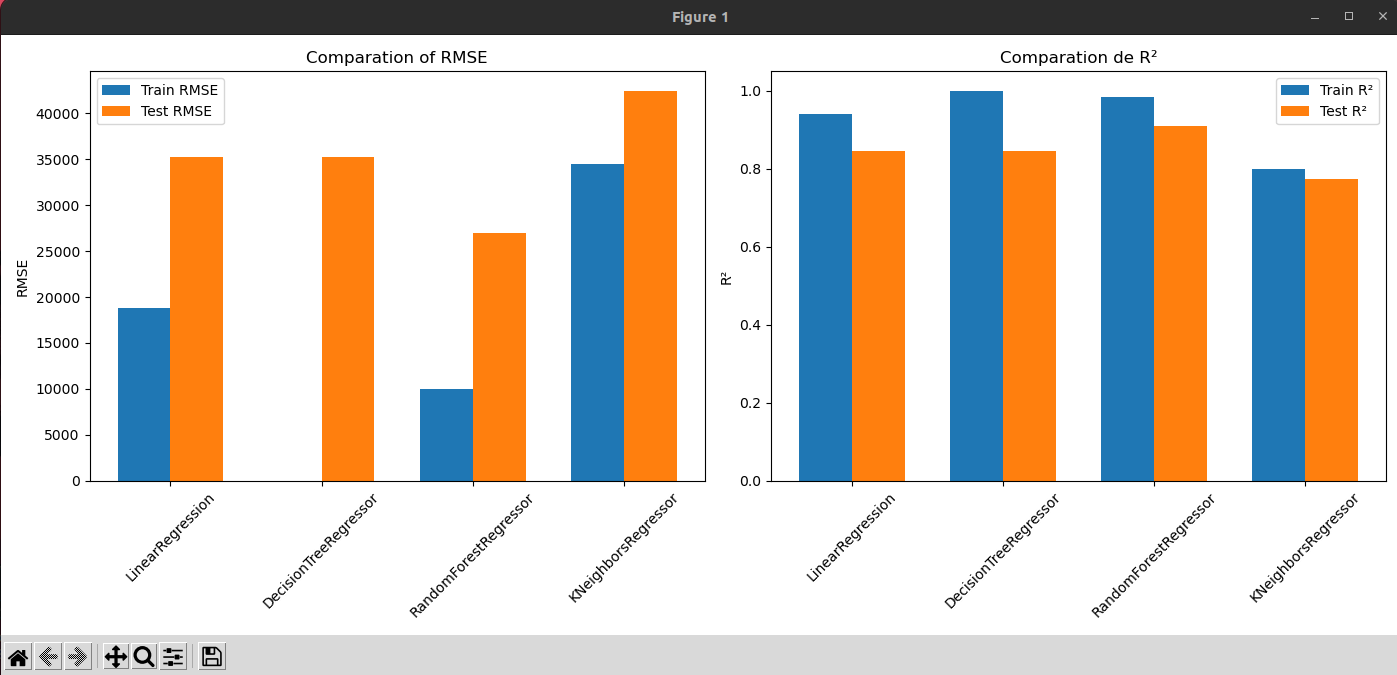
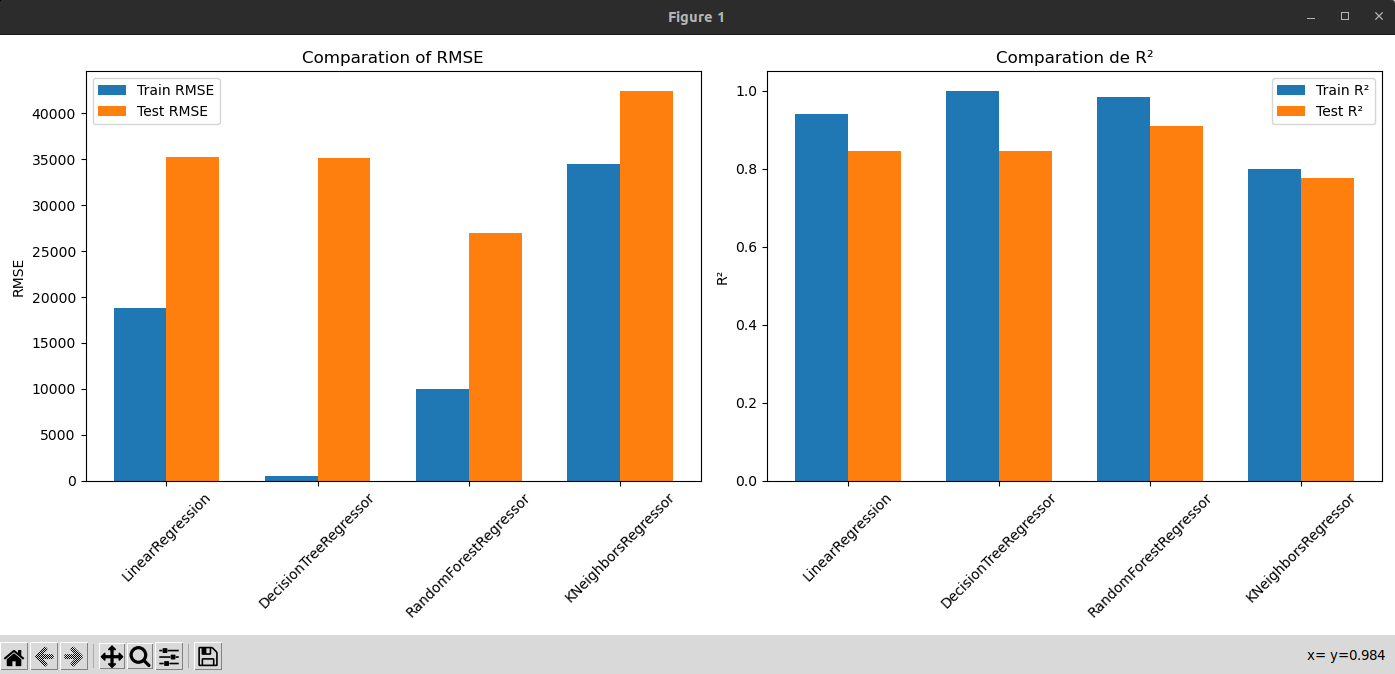
Program

diff --git a/1.FundamentalsML/2.HousePricePrediction/1.3TraininigMultipleAlgorithms/3.TrainingMultipleAlgorithms.py b/1.FundamentalsML/2.HousePricePrediction/1.3TraininigMultipleAlgorithms/3.TrainingMultipleAlgorithms.py
@@ -7,10 +7,11 @@ from sklearn.tree import DecisionTreeRegressor
 from sklearn.ensemble import RandomForestRegressor
 from sklearn.neighbors import KNeighborsRegressor
 from sklearn.metrics import mean_squared_error, r2_score
+from sklearn.model_selection import GridSearchCV
 
 # 1. Loading Cleaned Data
 print("\n=== 1. Loading Cleaned Data ===")
-file_path = '/home/kevin/Desktop/Kevin/3.MachineLearning/1.FundamentalsML/2.HousePricePrediction/2.ExploratoryDataAnalysis(EDA)/AmesHousing_cleaned.csv'
+file_path = '/home/kevin/Desktop/Kevin/3.MachineLearning/1.FundamentalsML/2.HousePricePrediction/1.2ExploratoryDataAnalysis(EDA)/AmesHousing_cleaned.csv'
 df = pd.read_csv(file_path)
 print(f"Dataset loaded with shape: {df.shape}")
 
@@ -29,10 +30,19 @@ X = pd.get_dummies(X, columns=categorical_columns, drop_first=True)
 X_train, X_test, y_train, y_test = train_test_split(X, y, test_size=0.2, random_state=42)
 
 
+# --- Grid Search para DecisionTreeRegressor ---
+def get_best_decision_tree(X_train, y_train):
+    param_grid = {'max_depth': [5, 10, 15, 20, 25, None]}
+    grid_search = GridSearchCV(DecisionTreeRegressor(random_state=42), param_grid, cv=5, scoring='neg_mean_squared_error')
+    grid_search.fit(X_train, y_train)
+    print(f"\n✅ Best max_depth for DecisionTreeRegressor: {grid_search.best_params_['max_depth']}")
+    return DecisionTreeRegressor(random_state=42, max_depth=grid_search.best_params_['max_depth'])
+
+
 # Modelos
 models = {
     'LinearRegression': LinearRegression(),
-    'DecisionTreeRegressor': DecisionTreeRegressor(random_state=42),
+    'DecisionTreeRegressor': get_best_decision_tree(X_train, y_train),  # Optimizado
     'RandomForestRegressor': RandomForestRegressor(random_state=42),
     'KNeighborsRegressor': KNeighborsRegressor()
 }
@@ -50,12 +60,12 @@ def evaluate_model(model, X_train, X_test, y_train, y_test):
     test_rmse = mean_squared_error(y_test, y_test_pred, squared=False)
     train_r2 = r2_score(y_train, y_train_pred)
     test_r2 = r2_score(y_test, y_test_pred)
-    
+
     print(f"\n📊 Model: {model.__class__.__name__}")
     print(f"Train RMSE: {train_rmse:.2f}")
     print(f"Test RMSE: {test_rmse:.2f}")
-    print(f"Train R2: {train_r2:.2f}")
-    print(f"Test R2: {test_r2:.2f}")
+    print(f"Train R²: {train_r2:.2f}")
+    print(f"Test R²: {test_r2:.2f}")
     print("-" * 50)
 
     results.append({

diff --git a/1.FundamentalsML/2.HousePricePrediction/1.2ExploratoryDataAnalysis(EDA)/2.ExploratoryDataAnalysis(EDA).py b/1.FundamentalsML/2.HousePricePrediction/1.2ExploratoryDataAnalysis(EDA)/2.ExploratoryDataAnalysis(EDA).py
@@ -3,7 +3,7 @@ import numpy as np
 import matplotlib.pyplot as plt
 
 # Ruta del archivo procesado (el que guardamos en DataProcessing.py)
-file_path = '/home/kevin/Desktop/Kevin/3.MachineLearning/1.FundamentalsML/2.HousePricePrediction/2.ExploratoryDataAnalysis(EDA)/AmesHousing_cleaned.csv'
+file_path = '/home/kevin/Desktop/Kevin/3.MachineLearning/1.FundamentalsML/2.HousePricePrediction/1.2ExploratoryDataAnalysis(EDA)/AmesHousing_cleaned.csv'
 
 # Cargar datos
 df = pd.read_csv(file_path)

diff --git a/1.FundamentalsML/2.HousePricePrediction/1.3TraininigMultipleAlgorithms/Readme.md b/1.FundamentalsML/2.HousePricePrediction/1.3TraininigMultipleAlgorithms/Readme.md
@@ -1,0 +1,81 @@
+<p align = "center" >
+    <h1 align = "Center"> Training Multiple Algorithms</h1>
+</p>
+
+<p align = "center" >
+    <h2 align = "Center">🎯 Objetives 🎯</h2>
+</p>
+
+Load the clean dataset, convert the categorical variables, train 4 different models, calculate their key metrics (RMSE and R²), and compare them with clear graphs, helping you select the best model to predict SalePrice.
+
+This program is responsible for testing and comparing different Machine Learning algorithms to predict house prices (SalePrice).  Its purpose is to identify which model offers the best balance between accuracy (R²) and error (RMSE).
+
+
+* **1.Data Loading and Preparation** 
+    - Load the cleaned dataset: AmesHousing_cleaned.csv.
+    - Separate Features (X) and Target (y), where:
+        - Features: All columns except SalePrice.
+        - Objetivo: Columna SalePrice.
+    - Detect categorical columns (object type).
+    - Apply One-Hot Encoding to convert categorical variables into numerical variables (essential for sklearn models).
+    - Divide the data into train (80%) and test (20%).
+
+* **2.Models to Evaluate**
+    - Regresion Lineal
+        - Simple Linear Regression
+    - Decision Tree Regressor
+        - Decision Tree (With max_depth optimized by GridSearchCV)
+    - Random Forest Regressor 
+        - Ensemble of trees (Random Forest)
+    - KNeighbors Regressor
+        - K-nearest neighbors regressor (KNN) 
+
+* **3.Model Evaluation**
+    - The following Metrics are calculated
+        - Train RMSE
+            - Root mean squared error on the training set 
+        - Test RMSE 
+            - Root mean square error on the test set 
+        - Train R2
+            - Coefficient of determination in the training set 
+        - Test R2 
+            - Coefficient of determination in the test set
+    - RMSE measures the absolute error (the lower, the better).
+    - R² measures how well the model explains the variation in SalePrice (the closer to 1, the better).
+
+* **4.Results Recording**
+    - All the results are stored in a DataFrame called df_results.
+    - The results are ordered by the order of the evaluated models (so that the graphical comparison is clear).
+
+* **4.Graphical Comparison**
+    - These charts allow for a quick visualization to identify:
+    - Which model has the least error?
+    - Which model achieves greater accuracy?
+    - Is any model overfitting?
+
+<p align = "center" >
+    <h2 align = "Center">📝 Results 📝 </h2>
+</p>
+
+The bar you see in the graph generated by this code is a histogram that represents the distrubution of examples by class in the MNIST dataset (8x8 version)
+
+| <p align = "left"> Each  bar corresponds to a digit from 0 to 9, and the height of the bar indicates how many images of that digit are in the dataset. <br> It is used to verify that the data is balanced (that there is a similar number of images for each number) or to detect if any class has very few examples, which could affect the performance of your modeel.| <img src = "https://github.com/KevinAlberto01/3.MachineLearning/blob/main/1.FundamentalsML/1.HandwrittenDigitClassifier(MNIST)/1.1LoadingAndExploring(MNIST)/Images/Histogram.png" width="4000"/>|
+|----------------------------|----------------------------------------------------------------------------|
+
+The program is designed to show the dimensions (x, y) of the dataset, the classes it has, and the number of examples per class.
+<p align="center">
+  <img src="https://github.com/KevinAlberto01/3.MachineLearning/blob/main/1.FundamentalsML/1.HandwrittenDigitClassifier(MNIST)/1.1LoadingAndExploring(MNIST)/Images/Result.png" alt="Result2" width="1000"/>
+</p>
+
+<p align = "center" >
+    <h2 align = "Center"> 💻 Program explication 💻</h2>
+</p> 
+
+|Pseudocode| Image of the program|
+|----------|---------------------|
+**NumPy:** Used to work with arrays and matrices, and it has functions for mathematics and statistics <br> **Pandas:** Used to manipulate and analyze data, particularly with DataFrames (tables of rows and columns).<br> **matplotlib.pyplot:** Used to create graphs, and pyplot is specifically for generating different types of plots (e.g., bar, line, scatter).<br> **load_digits from sklearn.datasets:** Used to load a dataset of handwritten digits, which is commonly used in classification projects.| <img src = "https://github.com/KevinAlberto01/3.MachineLearning/blob/main/1.FundamentalsML/1.HandwrittenDigitClassifier(MNIST)/1.1LoadingAndExploring(MNIST)/Images/1.DeclareteLibraries.png" width="4000"/>|
+**`digits`:** loads a dataset of handwritten digit images, where you find images of numbers 0 to 9 in black and white, each with 8x8 pixels. Each image represents a number (digit) and has a label indicating which number it is. <br> **`x`:** Contains images (numeric format), for each 8x8 image it is flattened into a 64 array, each value represents the pixel intensity (0 = black, 16 = white). <br> **`y`:** contains the labels (real numbers of the images), each element is a number from 0 to , representing which digit each image is| <img src = "https://github.com/KevinAlberto01/3.MachineLearning/blob/main/1.FundamentalsML/1.HandwrittenDigitClassifier(MNIST)/1.1LoadingAndExploring(MNIST)/Images/2.LoadDataset.png" width="4000"/>|
+**`x.shape`:** Returns the dimension of x(1797, 64), it has 1797 images, and each image has 64 values (8x8 pixels). <br> **`y.shape`:** Returns the dimension of y (1797), there are 1797 labels per image, each label is the number it represents (0-9).|<img src = "https://github.com/KevinAlberto01/3.MachineLearning/blob/main/1.FundamentalsML/1.HandwrittenDigitClassifier(MNIST)/1.1LoadingAndExploring(MNIST)/Images/3.ExploringDimensionsDataSet.png" width="4000"/>|
+**`clases`:** Contains the unique values of y(0-9) <br> **`count_classes`:** Array that indicates how many examples there are of each class | <img src = "https://github.com/KevinAlberto01/3.MachineLearning/blob/main/1.FundamentalsML/1.HandwrittenDigitClassifier(MNIST)/1.1LoadingAndExploring(MNIST)/Images/4.CheckClassesNumberExamples.png" width="4000"/>|
+**`plt.figure(figsize=(8,5))`:** Set the size of the figure (8 wide and 5 high) <br> **`plt.bar(clases, count_classes, color='skyblue')`:** Create the bar chart, the list that contains the number of examples, assign the color of the bars. <br> **`plt.xlabel('Digit')`:** Set the x-axis label <br> **`plt.ylabel('Number of examples')`:** Set the y-axis label <br> **`plt.title('Distribution of the classes')`:** Add a title to the chart. <br> **`plt.show()`:** Visualize the graph | <img src = "https://github.com/KevinAlberto01/3.MachineLearning/blob/main/1.FundamentalsML/1.HandwrittenDigitClassifier(MNIST)/1.1LoadingAndExploring(MNIST)/Images/5.ViewDistributionClasses.png" width="4000"/>|
+**`fig, axes = plt.subplots(2, 5, figsize=(10, 5))`:** Create a figure and a grid (2 rows and 5 columns) totaling 10 subplots, set the size (10, 5 in inches)  10 wide and 5 high <br> **`fig.suptitle("Examples of images")`:** Establish a general title <br> **`for i, ax in enumerate(axes.ravel())`:** Iterates through each of the subplots, converts the (2x5) matrix into a one-dimensional array, which makes individual access easier, and returns both the index `i` and the `ax` object in each iteration. <br> **`ax.imshow(x[i].reshape(8,8), cmap='gray')`:** it is a vector image from the dataset.  resize to an 8x8 matrix, apply a grayscale <br> **`ax.set_title(f"label: {y[i]}")`:** Assign a title to each subplot. <br> **`ax.axis('off')`:** Deactivate the axes so that the marks or values do not appear. <br> **`plt.show()`:** Show the subplots and images. | <img src = "https://github.com/KevinAlberto01/3.MachineLearning/blob/main/1.FundamentalsML/1.HandwrittenDigitClassifier(MNIST)/1.1LoadingAndExploring(MNIST)/Images/6.ViewExample.png" width="4000"/>|
